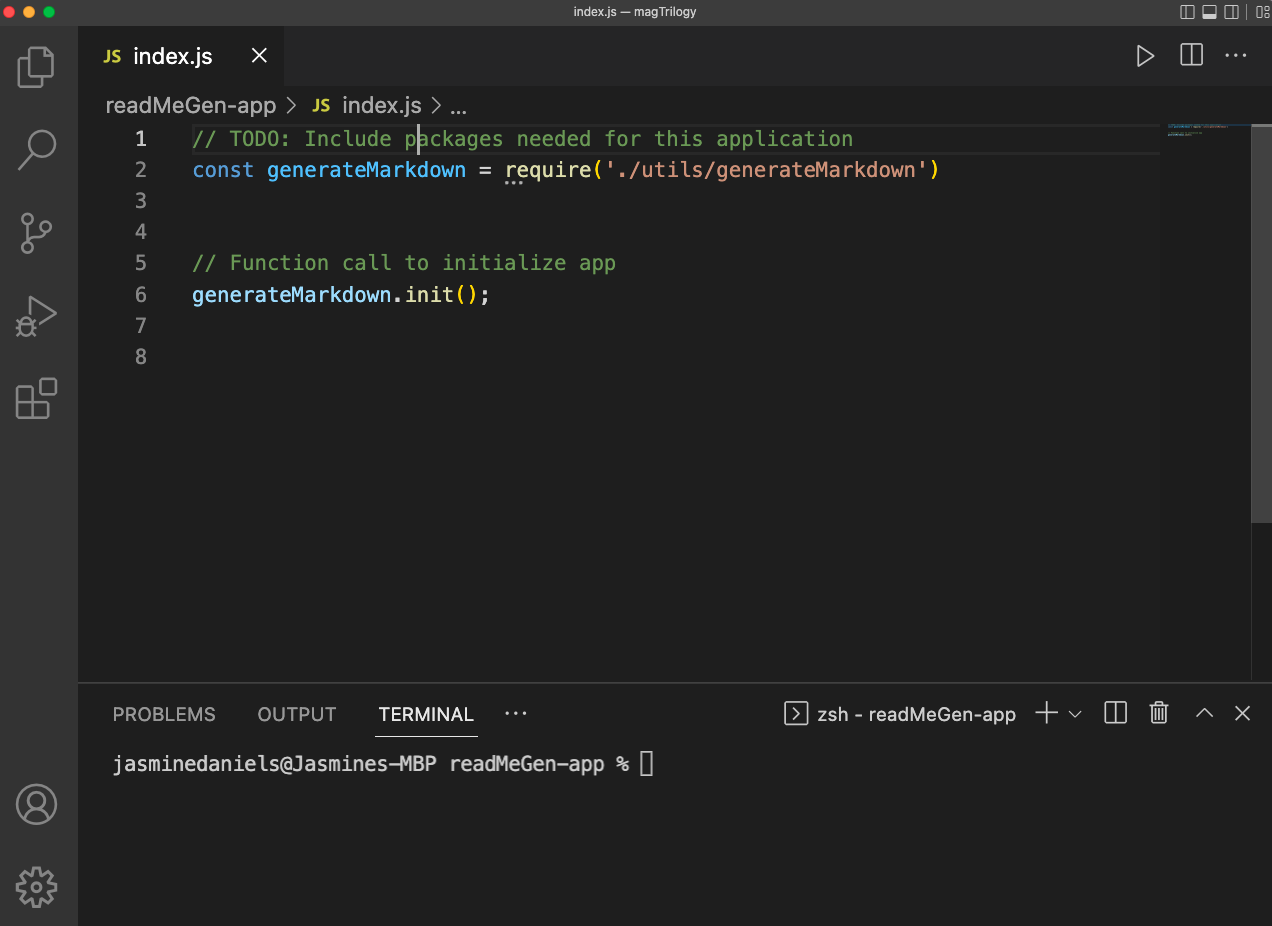
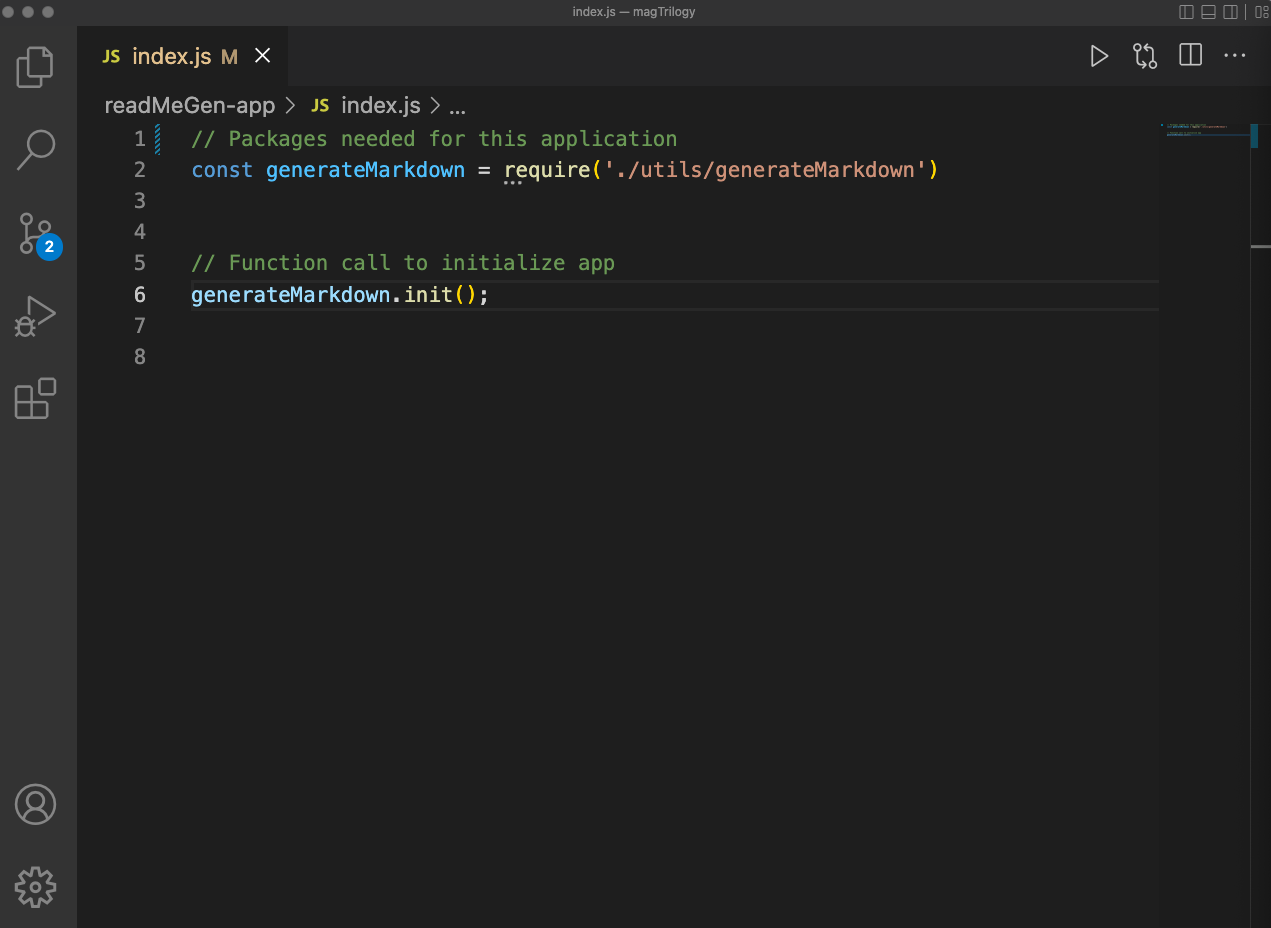
test demo -- readme v1.3

diff --git a/readMeGen-app/index.js b/readMeGen-app/index.js
@@ -1,4 +1,4 @@
-// TODO: Include packages needed for this application
+// Packages needed for this application
 const generateMarkdown = require('./utils/generateMarkdown')
 
 

diff --git a/README.md b/README.md
@@ -39,6 +39,10 @@ node index.js
 
 [READMEGen Demo](https://drive.google.com/file/d/1bSbB8JdbHnBto_ZCW7jkaTGrU-if7aTr/view?usp=sharing)
 
+### Image:
+
+![READMEGen Image](./readMeGen-app/img/readmegen.png)
+
 ## Credits
 
 
